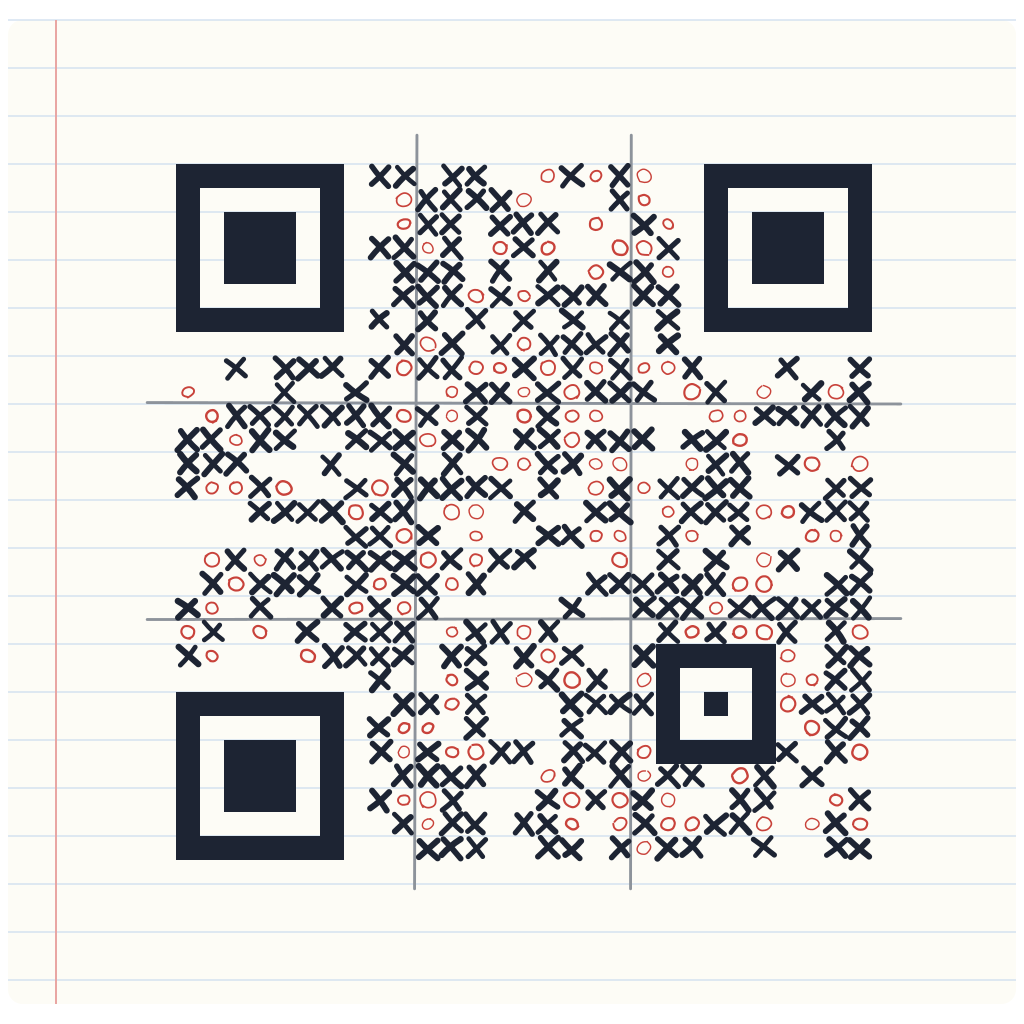
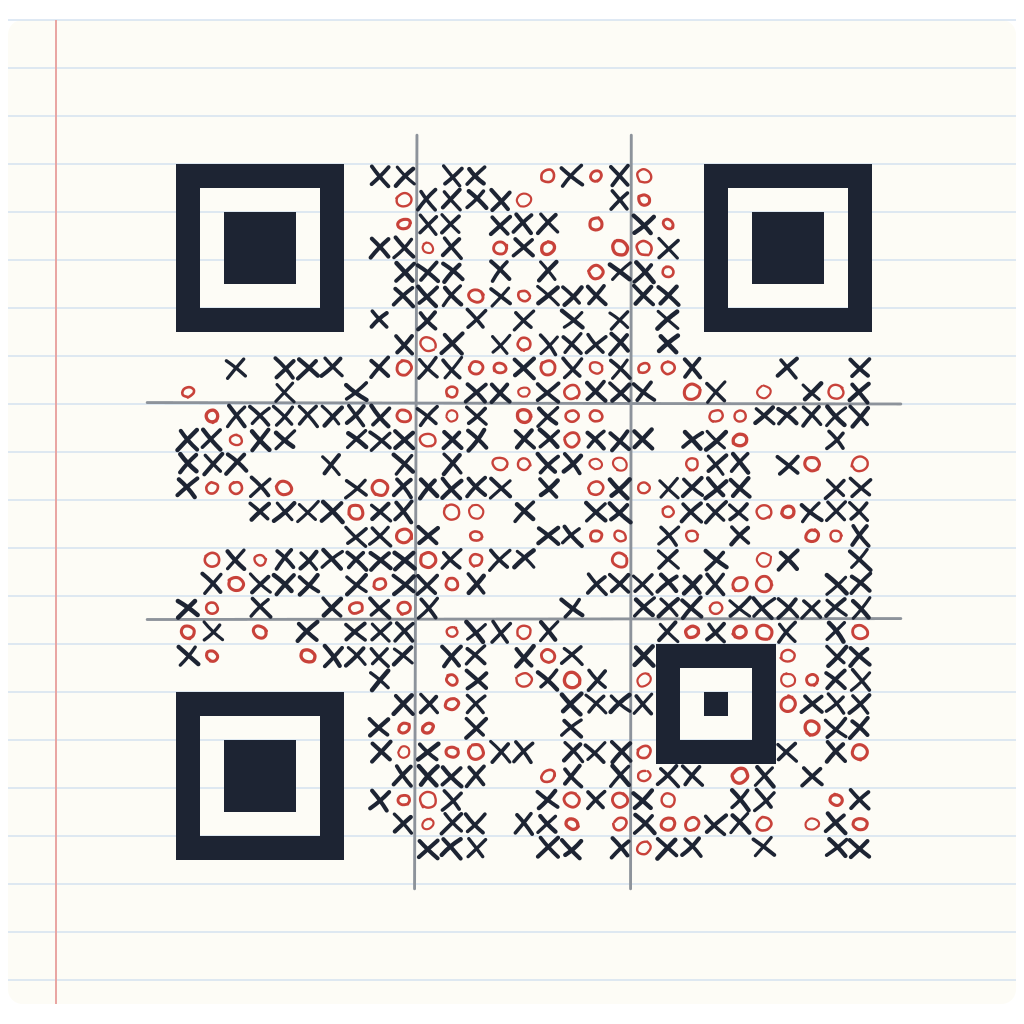
style: thinner Tic-Tac-Toe X's and thicker O's
Claude-Session: https://claude.ai/code/session_01VbyYxozHcVTyuPyhhYTroQ

Changed region(s): [[0.1562, 0.1562, 0.8438, 0.8438]]

diff --git a/src/games.ts b/src/games.ts
@@ -346,7 +346,7 @@ const NOTEBOOK = "#fdfcf6",
   MARKER_O = "#c8423a",
   // An X's strokes: their width, from thinnest to thickest, and how far
   // their ends stop short of the module's corners, in modules
-  X_STROKE = [0.19, 0.27],
+  X_STROKE = [0.13, 0.19],
   X_INSET = 0.14;
 // A hand-drawn stroke from (x1, y1) to (x2, y2), bowed a little to one side
 function handStroke(x1: number, y1: number, x2: number, y2: number, bow: number) {
@@ -464,7 +464,7 @@ export function ticTacToe(
       const r = 0.24 + unit(x, y, 93) * 0.11,
         squash = 0.78 + unit(x, y, 94) * 0.22,
         turn = (unit(x, y, 95) - 0.5) * 1.6,
-        weight = round(0.06 + unit(x, y, 98) * 0.04);
+        weight = round(0.09 + unit(x, y, 98) * 0.05);
       os += `<path d="${handLoop(X + 0.5, Y + 0.5, r, squash, turn, hash(x, y, 99) % 100000)}" stroke-width="${weight}"/>`;
     }
   let text = "";
